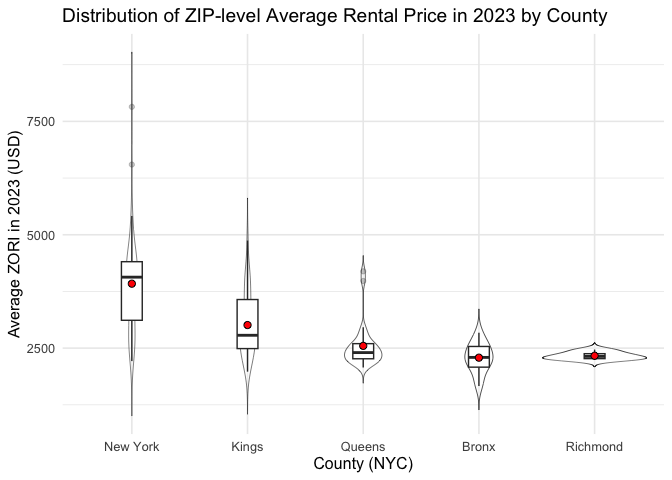
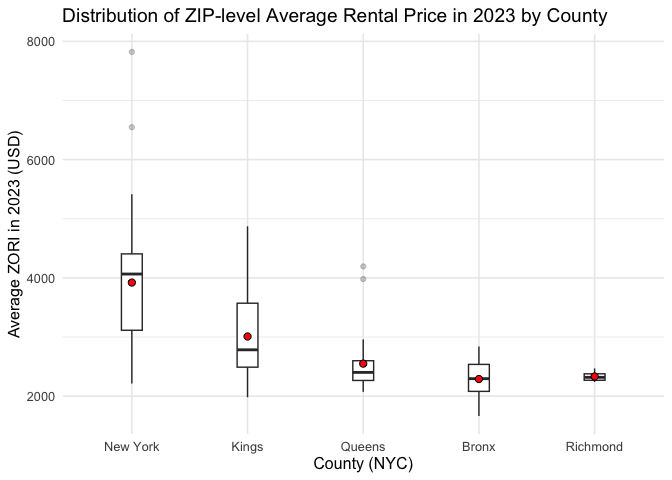
final edition

diff --git a/p8105_hw3_yc4804.md b/p8105_hw3_yc4804.md
@@ -254,6 +254,14 @@ cat("ZIPs observed < 10 times:", n_lt_10, "\n")
 
     ## ZIPs observed < 10 times: 26
 
+Some ZIP codes show up every month because they’re stable, residential
+areas with enough active rental listings for Zillow to compute ZORI
+continuously. ZIPs that appear only rarely are often PO-box or
+non-residential ZIPs, newly created/retired or boundary-changed ZIPs, or
+places with very sparse rental stock where values are suppressed or
+can’t be reliably estimated. Occasional data gaps or insufficient
+listings in particular months can also produce spotty coverage.
+
 ``` r
 #Q2) Reader-friendly table: average rental price by county*year
 library(knitr)
@@ -279,6 +287,16 @@ kable(avg_boro_year, caption = "Average ZORI ($) by County and Year", align = "c
 
 Average ZORI (\$) by County and Year
 
+The table shows a clear and persistent price gradient: New York
+(Manhattan) is highest every year, followed by Kings (Brooklyn), then
+Queens, with Bronx and Richmond (Staten Island) lowest. All boroughs dip
+or flatten around 2020–2021 (pandemic period) and then rebound strongly
+in 2022–2024, with Manhattan surpassing \$4,000 by 2024. Brooklyn and
+Queens also rise to new highs by 2024, while Bronx and Richmond increase
+more modestly and remain below the citywide leaders. Richmond is missing
+earlier years (coverage gap) but, where observed (2020+), tracks just
+above the Bronx and below Queens.
+
 ``` r
 #Q3) Plot: NYC rental prices over time (facilitates county comparisons)
 library(ggplot2)
@@ -302,12 +320,16 @@ p1 <- ggplot(boro_month_median, aes(date, median_zori, color = borough)) +
 p1
 ```
 
-![](p8105_hw3_yc4804_files/figure-gfm/unnamed-chunk-9-1.png)<!-- -->
-
-``` r
-# Comment: 
-# Clear separation persists (New York > Kings > Queens > Bronx/Richmond) with a notable post-2021 rise.
-```
+![](p8105_hw3_yc4804_files/figure-gfm/unnamed-chunk-9-1.png)<!-- --> The
+time-series makes the borough gradient unmistakable: New York
+(Manhattan) is highest throughout, Kings (Brooklyn) next, then Queens,
+with Bronx and Richmond (Staten Island) lowest. All five show a pandemic
+dip around 2020–2021, most pronounced in Manhattan, followed by a strong
+rebound from 2022 onward—Manhattan surpasses \$4k by 2024 while others
+also reach new highs. Richmond enters later (coverage begins around
+2021) and tracks just above the Bronx. Early volatility in the Bronx
+likely reflects sparse ZIP coverage; otherwise the series are smooth and
+clearly separated, facilitating cross-borough comparison.
 
 ``` r
 #Q4) 2023 ZIP-level averages + distribution plot across counties
@@ -321,7 +343,6 @@ zip_2023_avg <- zori_long %>%
 
 # Reader-friendly distribution plot across boroughs
 p_zip_dist_2023 <- ggplot(zip_2023_avg, aes(borough, avg_2023)) +
-  geom_violin(trim = FALSE, alpha = 0.25, linewidth = 0.2) +
   geom_boxplot(width = 0.18, outlier.alpha = 0.25) +
   stat_summary(fun = "mean", geom = "point", shape = 21, size = 2.2, fill = "red")  +
   labs(
@@ -336,11 +357,15 @@ p_zip_dist_2023
 ```
 
 ![](p8105_hw3_yc4804_files/figure-gfm/unnamed-chunk-10-1.png)<!-- -->
-
-``` r
-# Comment:
-# New York (Manhattan) and Kings (Brooklyn) have the highest medians and widest upper tails, indicating more expensive and variable ZIPs; Queens is intermediate; Bronx and Richmond (Staten Island) show lower medians and tighter spreads.
-```
+The 2023 ZIP-level distributions line up as expected: New York
+(Manhattan) is highest and most variable, with a wide IQR and several
+high outliers (\> \$6k–\$7k). Kings (Brooklyn) sits next with a moderate
+spread, followed by Queens in the mid-\$2k range with a tighter IQR but
+a few high outliers (~\$4k). Bronx and Richmond (Staten Island) are
+lowest; Richmond’s box is especially narrow, suggesting little
+within-county variation (and/or fewer ZIPs). Overall, both the level and
+the spread of rents decline as you move from Manhattan → Brooklyn →
+Queens → Bronx/Richmond.
 
 ``` r
 #Q5: combine two plots
